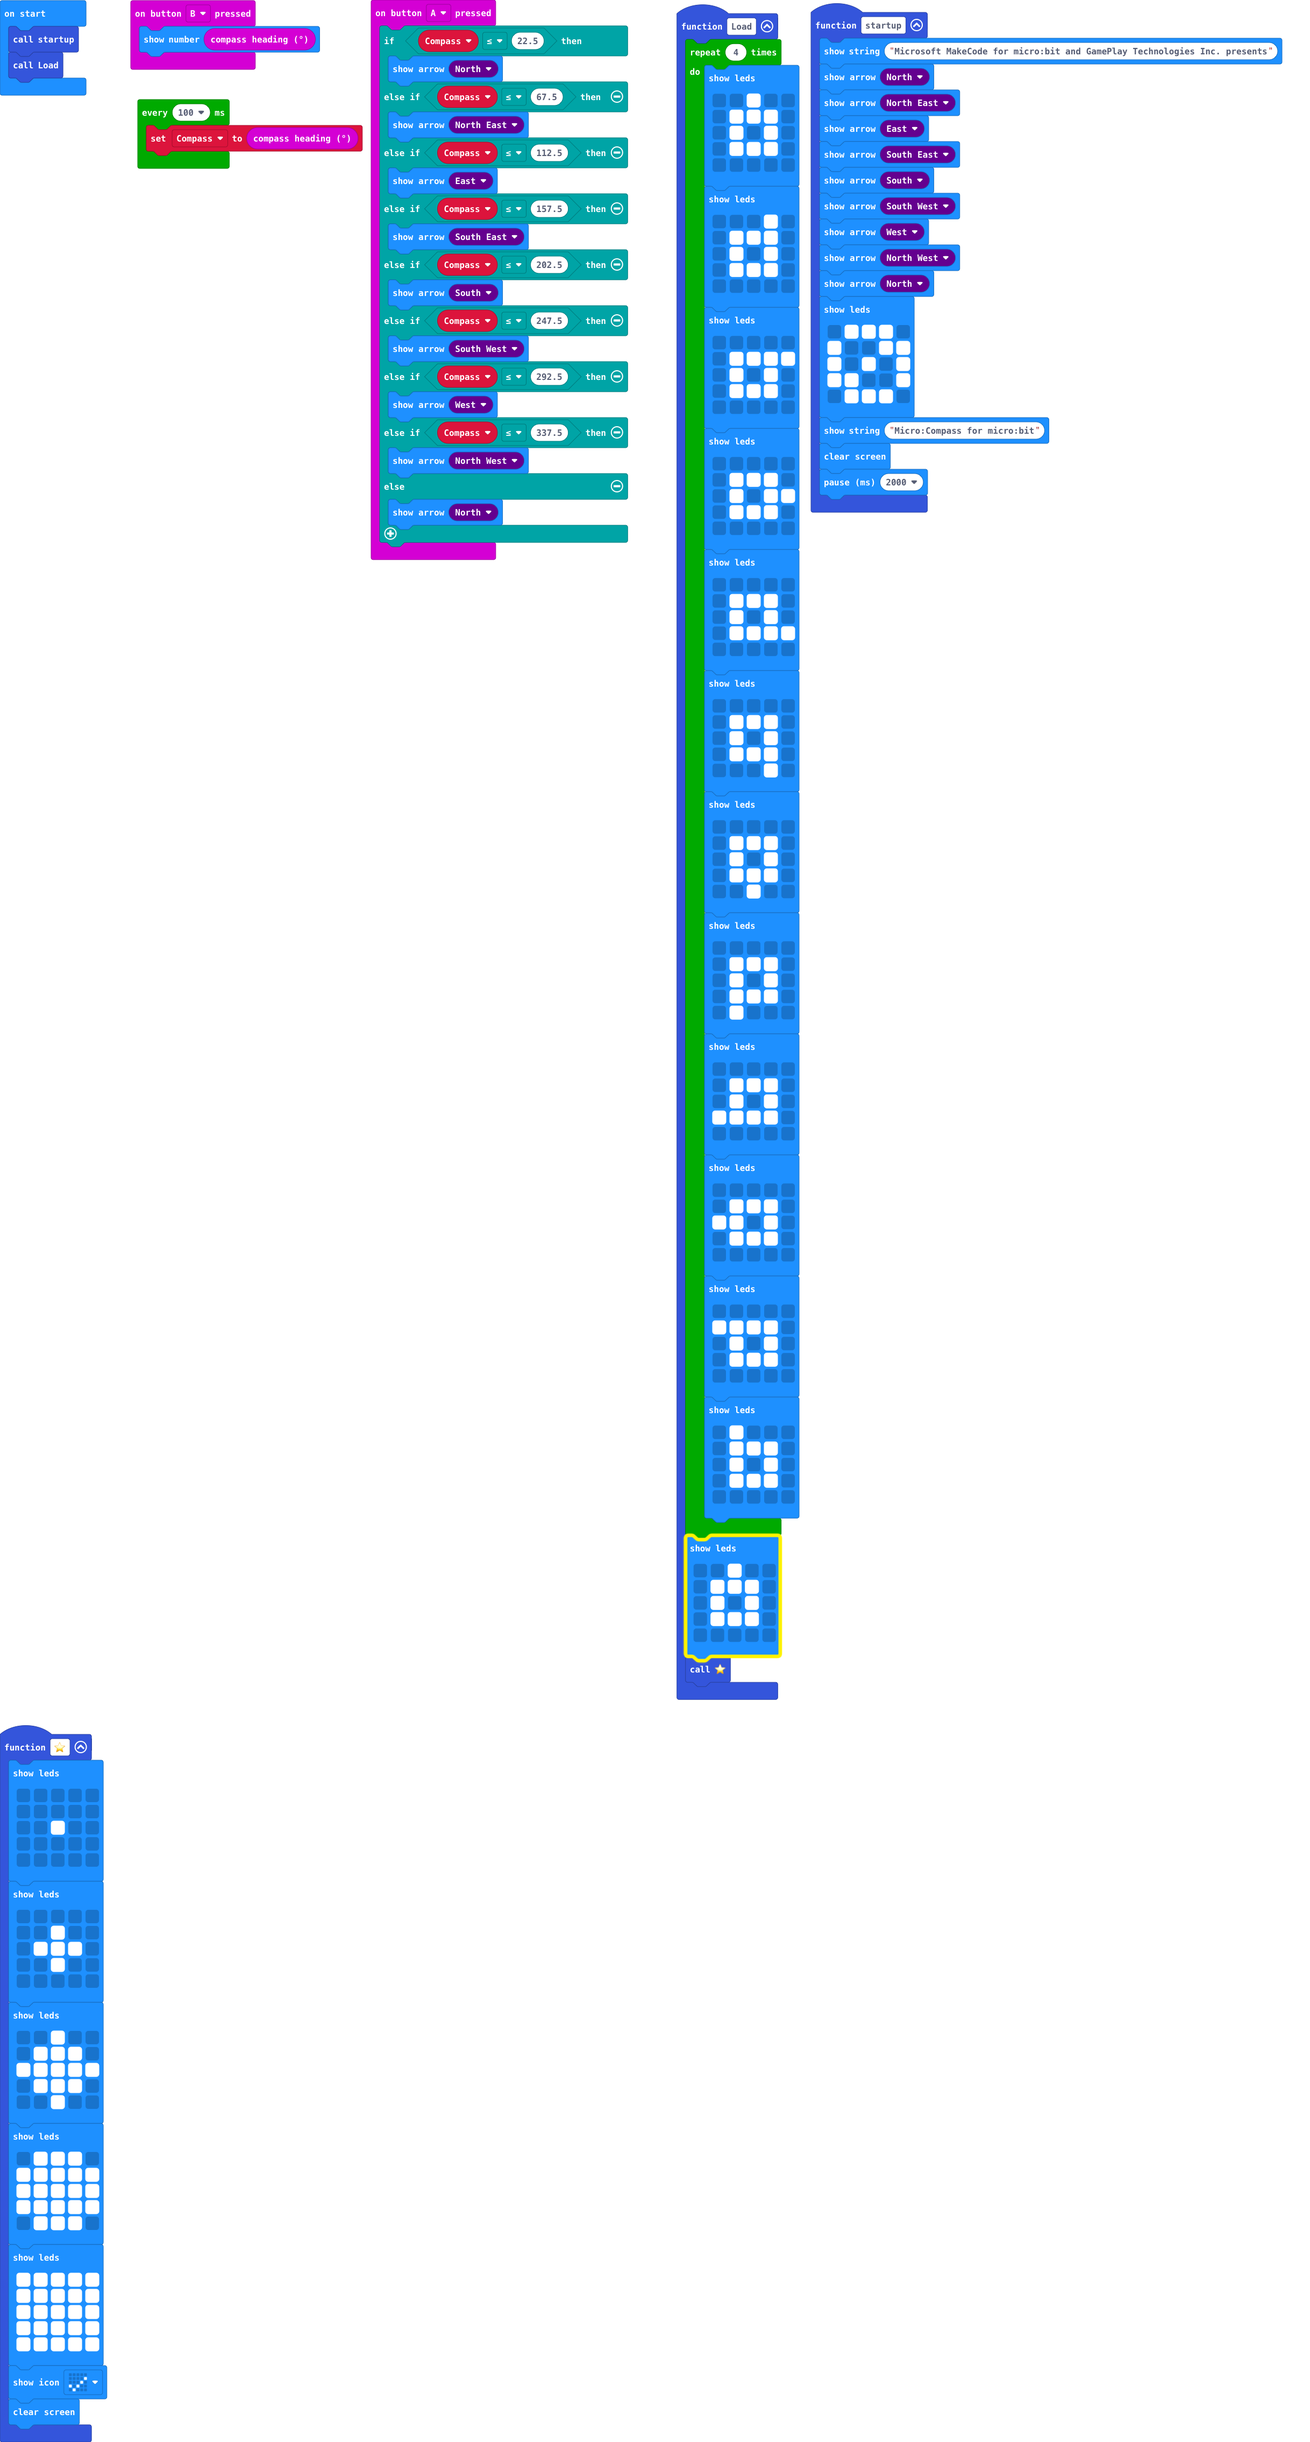
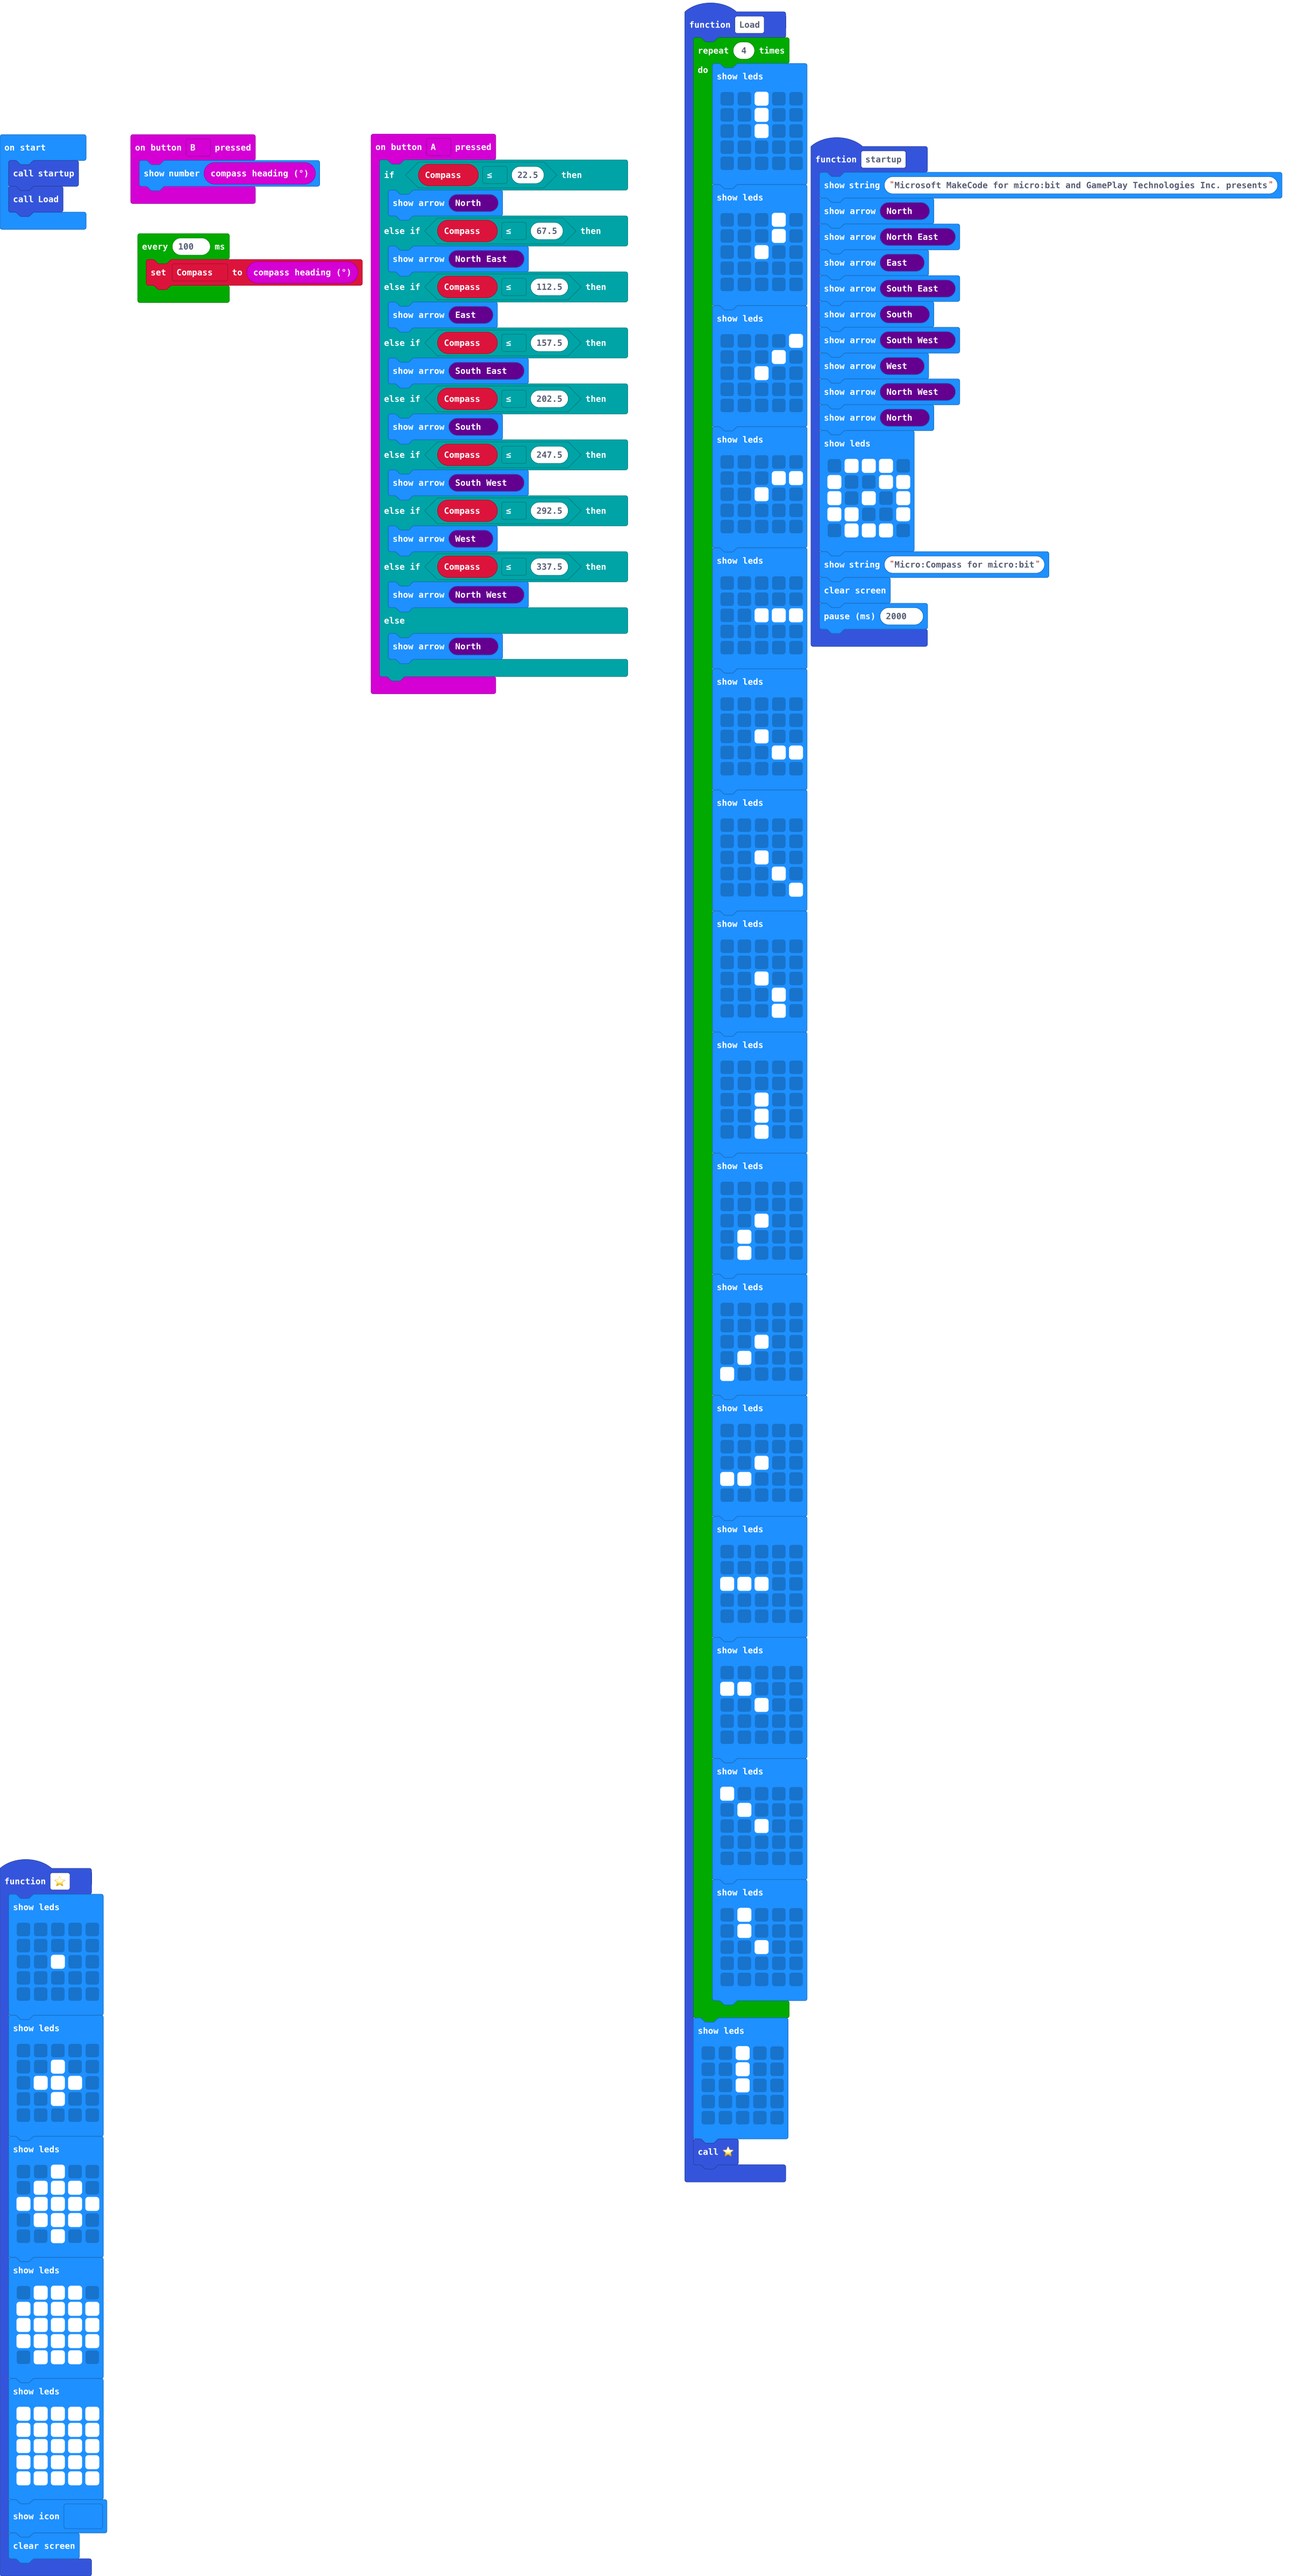
Clock GUI 3.0 added

Changed region(s): [[0.0936, 0.0, 0.9672, 0.87], [0.0, 0.6836, 0.0936, 0.9943], [0.0, 0.0, 0.0624, 0.0932]]

diff --git a/main.ts b/main.ts
@@ -2,94 +2,122 @@ function Load () {
     for (let index = 0; index < 4; index++) {
         basic.showLeds(`
             . . # . .
-            . # # # .
-            . # . # .
-            . # # # .
+            . . # . .
+            . . # . .
+            . . . . .
             . . . . .
             `)
         basic.showLeds(`
             . . . # .
-            . # # # .
-            . # . # .
-            . # # # .
+            . . . # .
+            . . # . .
+            . . . . .
+            . . . . .
+            `)
+        basic.showLeds(`
+            . . . . #
+            . . . # .
+            . . # . .
+            . . . . .
             . . . . .
             `)
         basic.showLeds(`
             . . . . .
-            . # # # #
-            . # . # .
-            . # # # .
+            . . . # #
+            . . # . .
+            . . . . .
             . . . . .
             `)
         basic.showLeds(`
             . . . . .
-            . # # # .
-            . # . # #
-            . # # # .
+            . . . . .
+            . . # # #
+            . . . . .
             . . . . .
             `)
         basic.showLeds(`
             . . . . .
-            . # # # .
-            . # . # .
-            . # # # #
+            . . . . .
+            . . # . .
+            . . . # #
             . . . . .
             `)
         basic.showLeds(`
             . . . . .
-            . # # # .
-            . # . # .
-            . # # # .
+            . . . . .
+            . . # . .
+            . . . # .
+            . . . . #
+            `)
+        basic.showLeds(`
+            . . . . .
+            . . . . .
+            . . # . .
+            . . . # .
             . . . # .
             `)
         basic.showLeds(`
             . . . . .
-            . # # # .
-            . # . # .
-            . # # # .
+            . . . . .
+            . . # . .
+            . . # . .
             . . # . .
             `)
         basic.showLeds(`
             . . . . .
-            . # # # .
-            . # . # .
-            . # # # .
+            . . . . .
+            . . # . .
+            . # . . .
             . # . . .
             `)
         basic.showLeds(`
             . . . . .
-            . # # # .
-            . # . # .
-            # # # # .
+            . . . . .
+            . . # . .
+            . # . . .
+            # . . . .
+            `)
+        basic.showLeds(`
+            . . . . .
+            . . . . .
+            . . # . .
+            # # . . .
             . . . . .
             `)
         basic.showLeds(`
             . . . . .
-            . # # # .
-            # # . # .
-            . # # # .
+            . . . . .
+            # # # . .
+            . . . . .
             . . . . .
             `)
         basic.showLeds(`
             . . . . .
-            # # # # .
-            . # . # .
-            . # # # .
+            # # . . .
+            . . # . .
+            . . . . .
+            . . . . .
+            `)
+        basic.showLeds(`
+            # . . . .
+            . # . . .
+            . . # . .
+            . . . . .
             . . . . .
             `)
         basic.showLeds(`
             . # . . .
-            . # # # .
-            . # . # .
-            . # # # .
+            . # . . .
+            . . # . .
+            . . . . .
             . . . . .
             `)
     }
     basic.showLeds(`
         . . # . .
-        . # # # .
-        . # . # .
-        . # # # .
+        . . # . .
+        . . # . .
+        . . . . .
         . . . . .
         `)
     _()
